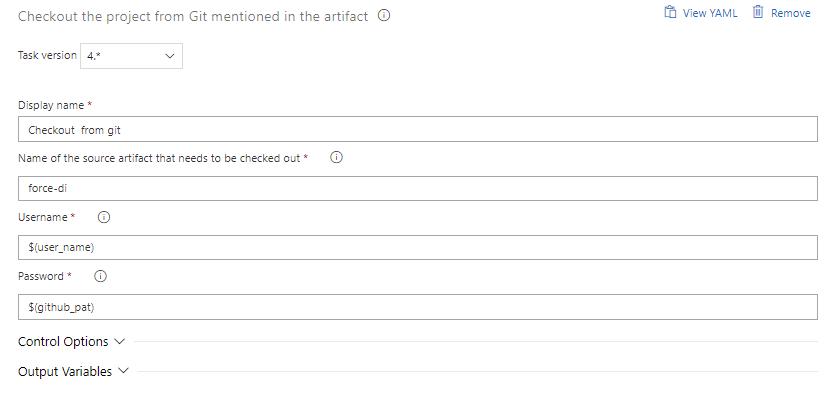
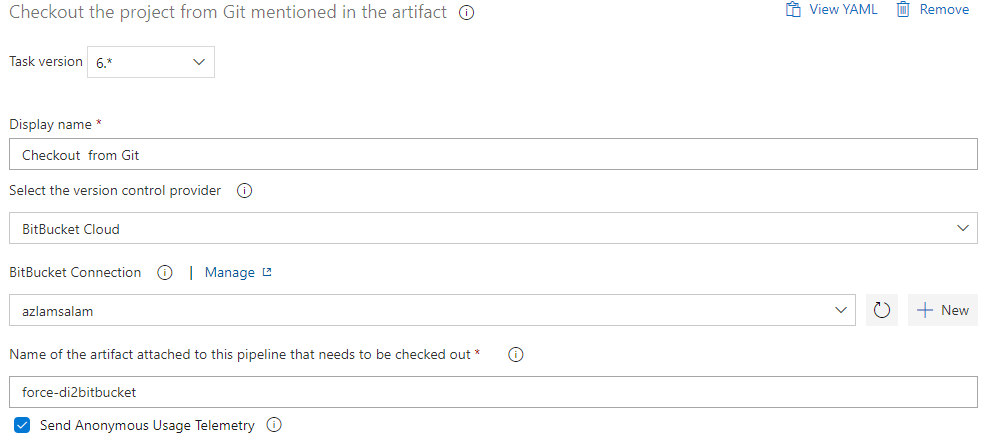
Add service credential docs

diff --git a/_docs/Tasks/Deployment-Tasks/Checkout a build artifact.md b/_docs/Tasks/Deployment-Tasks/Checkout a build artifact.md
@@ -5,7 +5,8 @@ subcategory: Deployment Tasks
 order: 12
 ---
 
-This task is used to checkout the code to a particular commit id from a GIT repo (using Basic Authentication over HTTPS ) as mentioned in the build artifact produced by Created Source Based Packaging Task. This task is used in a release pipeline for a Source based deployment. The repo URL and commit id are already stored in the artifact produced by Packaging Tasks
+This task is used to checkout the code to a particular commit id from a GIT repo as mentioned in the build artifact produced by SFPowerscript Packaging Task. This task is used in a release pipeline to have access to the code either for a source deployment or for a pre/post deployment of an unlocked package. The repo URL and commit id are already stored in the artifact produced by Packaging Tasks. This task at the moment only supports Git providers with HTTPS access.
+
 
 **Task Snapshot**
 
@@ -15,21 +16,48 @@ This task is used to checkout the code to a particular commit id from a GIT repo
 
 id: sfpwowerscript-checkoutprojectfromartifact-task
 
-version: 5.0.1
+version: 6.0.0
 
 **Input Variables&nbsp; - Visual Designer Labels (Yaml variables)**
+
+* **Select the version control provider(versionControlProvider)**
+   
+   The version control provider that hosts the particular repo. The available options are Github (github), GitHub Enterprise (githubEnterprise), BitBucket Cloud (bitbucket), Azure Repo (azureRepo), Other Git (otherGit). 
+
+  Following are the connection types supported and have to be assigned for this command to work
+
+     * **GitHub Connection(github_connection)**
+      
+      Select the corresponding Github service connection from the dropdown (in the classic mode) or set the variable with appropriate connection name if used in a Yaml pipeline. Read more instruction on using connectedService [here](https://docs.microsoft.com/en-us/azure/devops/pipelines/library/service-endpoints?view=azure-devops&tabs=yaml)
+    
+      * **GitHub Enterprise Connection(github_enterprise_connection)**
+      
+      Select the corresponding Github Enterprise service connection from the dropdown (in the classic mode) or set the variable with appropriate connection name if used in a Yaml pipeline. Read more instruction on using connectedService [here](https://docs.microsoft.com/en-us/azure/devops/pipelines/library/service-endpoints?view=azure-devops&tabs=yaml)
+
+     * **Bitbucket Connection(bitbucket_connection)**
+      
+      Select the corresponding Bitbucket cloud service connection from the dropdown (in the classic mode) or set the variable with appropriate connection name if used in a Yaml pipeline. Read more instruction on using connectedService [here](https://docs.microsoft.com/en-us/azure/devops/pipelines/library/service-endpoints?view=azure-devops&tabs=yaml)
+ 
+     * **Azure Repo (azureRepo)**
+      
+      If azure Repo is selected, the agent has to have the setting 'Allow Script to access OAuth Token' activated in the Agent Job settings, so that  the task can access $(System.AccessToken) Variable and checkout the code
+
+      * **Other Git (otherGit)**
+        
+       If your repo is none of the above, then utilize this selection to pass in the username/password for a basic authentication schema to checkout the corresponding code.
+
+       If this mode is selected please fill in Username (username) and Password (password) to checkout the repository
+           
+       
+
+
+
 
 * **Name of the source artifact that needs to be checked out(artifact)**
 
   The name of the artifact that is attached to this release pipeline. Please note it will only take artifact generated by Create SFDX Unlocked Package or Create Source based packaging
 
-* **Username (username)**
 
-  Username of the version control provider
-
-* **Password (password)**
-
-  Some version control provider such as Bitbucket Cloud need an App Password while Github/Azure DevOps need a Personal Access Token
 
 **Output Variables**
 
@@ -47,6 +75,7 @@ None
 
 **Changelog**
 
+* 6.0.0 Uses Service Credentials
 * 5.0.1 Updated with Telemetry
 * 4.8.0 Minor Improvements
 * 2.8.0 Initial Version
